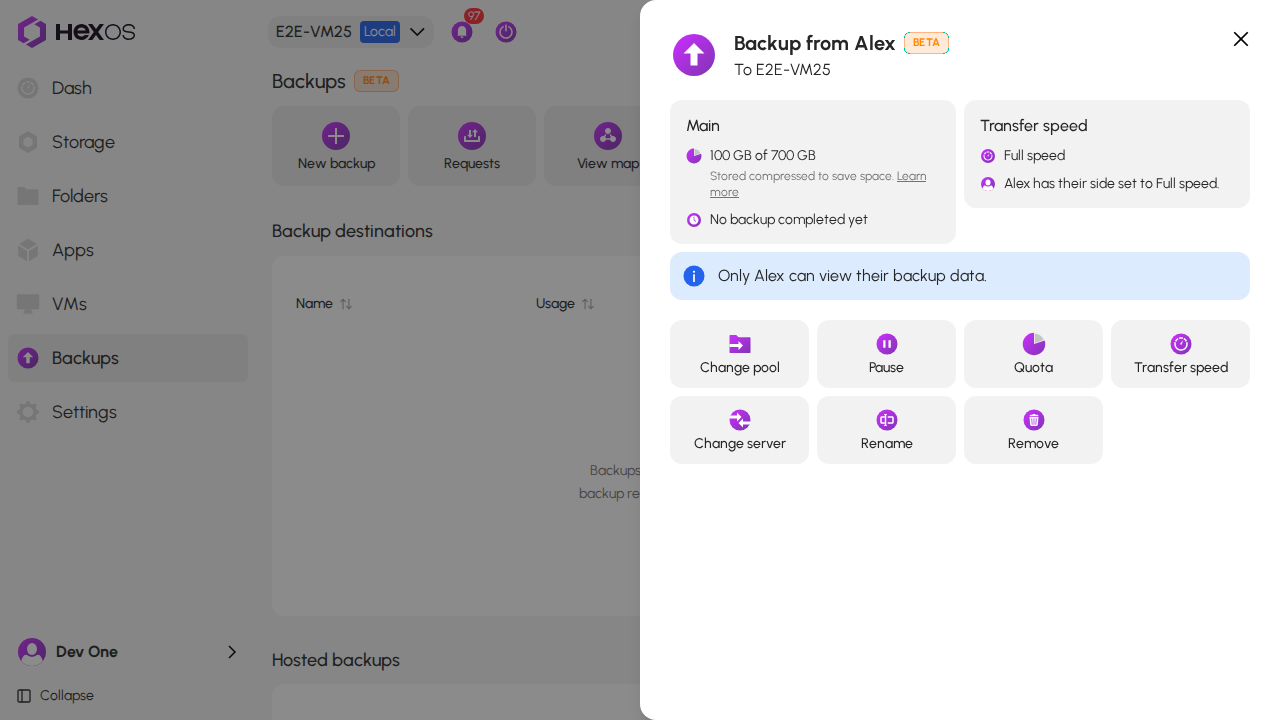
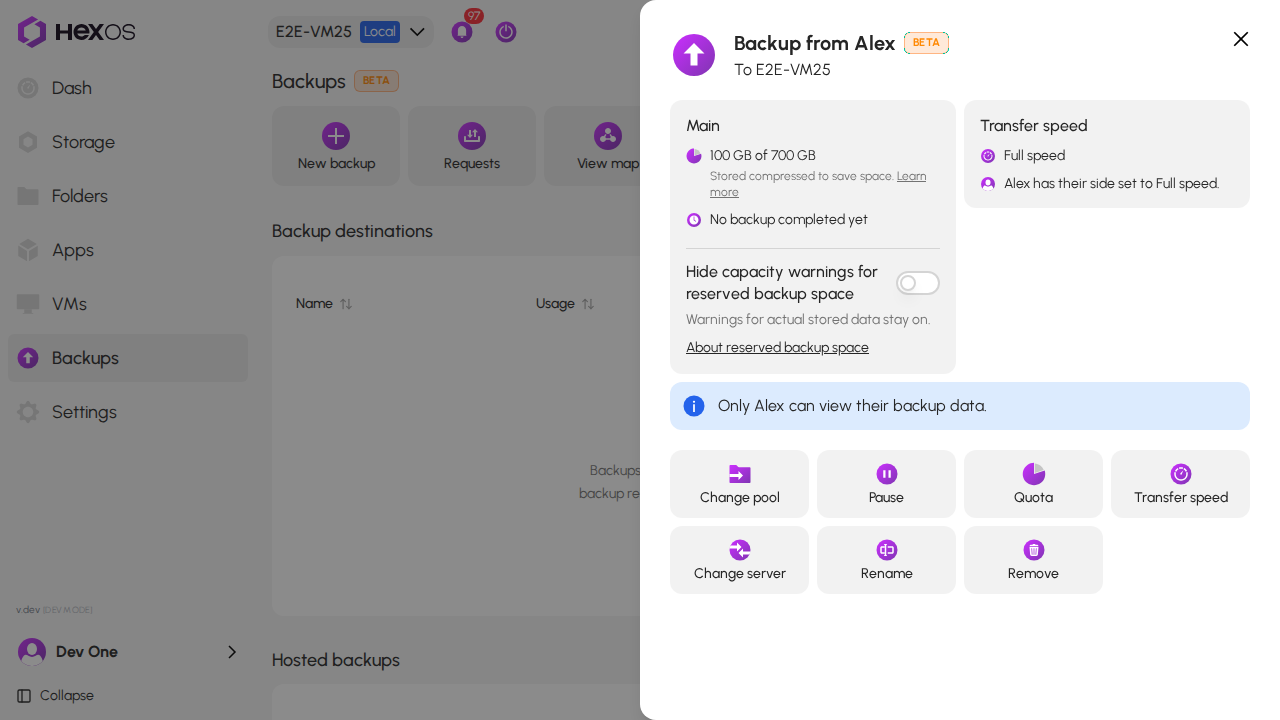
docs: Clarify Buddy Backup space and warning choices

diff --git a/features/backups/host-a-buddys-backup.md b/features/backups/host-a-buddys-backup.md
@@ -103,15 +103,27 @@ You can also manage hosted backups from the **Storage** page. Open a pool to see
 
 ## When your buddy asks for more space
 
-Your buddy can ask for more space. Their request shows on your **Pending requests** page as "Storage change request from" their email, with the old and new limit.
+Your buddy can ask for more space. Open **Backups**, then **Requests**. The request shows who is asking and the old and new allowance.
 
-Click **Approve** to set aside the new amount, or **Decline** to keep the current one.
+1. Click **Approve** to give them the new amount, or **Decline** to keep the current amount. After a successful approval, the request disappears.
 
 <details>
-<summary> A storage change request </summary>
+<summary> Approve the extra backup space </summary>
 
-![quota-change-request.png](/features/backups/images/quota-change-request.png){.medium .framed}
+![Request for more backup space](/host-a-buddys-backup/quota-request.png){.medium .framed}
 </details>
+
+2. If the new reservation would trigger a capacity warning, a separate **Hide reserved-space warnings?** question opens. The storage increase is already approved. Click **Approve** to hide warnings caused by its unused reserved space. Click **Decline** or close the question to keep those warnings on.
+
+<details>
+<summary> Choose whether to hide reserved-space warnings </summary>
+
+![Separate warning question](/host-a-buddys-backup/quota-warning-question.png){.medium .framed}
+</details>
+
+Declining this second question does not cancel the storage increase. Warnings for actual stored data stay on either way. If the warning setting cannot be saved, the question stays open so you can retry or decline; you do not need to approve the storage increase again.
+
+If you previously hid this backup's warning, a larger allowance needs a new choice. You can also change the warning setting later on the hosted backup's storage card.
 
 ## Move a backup to another pool
 
@@ -172,7 +184,7 @@ When you host a backup, HexOS keeps the agreed space available for that backup. 
 ![Space kept for a backup](/host-a-buddys-backup/reserved-backup-space.jpeg){.medium}
 </details>
 
-**Hide reserved-space warning** hides the capacity warning caused by the unused part of that reservation. It starts turned off. Only the owner of the server storing the backup can change it.
+**Hide capacity warnings for reserved backup space** hides the capacity warning caused by the unused part of that reservation. It starts turned off. Only the owner of the server storing the backup can change it.
 
 Your backup keeps its reserved space. The pool's used and free amounts stay the same. Stored backup data, restore points, and your other files still count toward capacity warnings.
 
@@ -188,23 +200,17 @@ For example, a pool has 1 TB of usable space. Your files use 200 GB, and you res
 ![Hosted backup](/host-a-buddys-backup/hosted-backup.png){.medium .framed}
 </details>
 
-2. Click **Quota**. The **Storage quota** dialog opens.
+2. On the card named after the storage pool, turn on **Hide capacity warnings for reserved backup space**. The change saves immediately. You do not need to open **Quota** or change the allowance.
 
 <details>
-<summary> Open the Storage quota dialog </summary>
+<summary> Change the warning setting on the storage card </summary>
 
-![Storage settings](/host-a-buddys-backup/storage-settings.png){.medium .framed}
+![Warning switch on the hosted backup's storage card](/host-a-buddys-backup/hosted-card-warning-on.png){.medium .framed}
 </details>
 
-3. Turn on **Hide reserved-space warning**, then click **Save changes**. You can leave the reserved amount unchanged.
+HexOS checks the reservation before changing the warning. The switch shows your saved choice immediately, but the warning can take up to five minutes to change. To restore the warning, turn the same switch off.
 
-<details>
-<summary> Hide the reserved-space warning </summary>
-
-![Warning setting turned on](/host-a-buddys-backup/warning-switch-on.png){.medium .framed}
-</details>
-
-HexOS checks the reservation before changing the warning. Turning the switch on or off can take up to five minutes to change the warning. To restore the warning, open the same settings, turn the switch off, and click **Save changes**.
+If settings cannot load, click **Retry** when the server is connected. If a save fails, the previous setting remains selected. You can try again.
 
 ### Choose during setup
 
